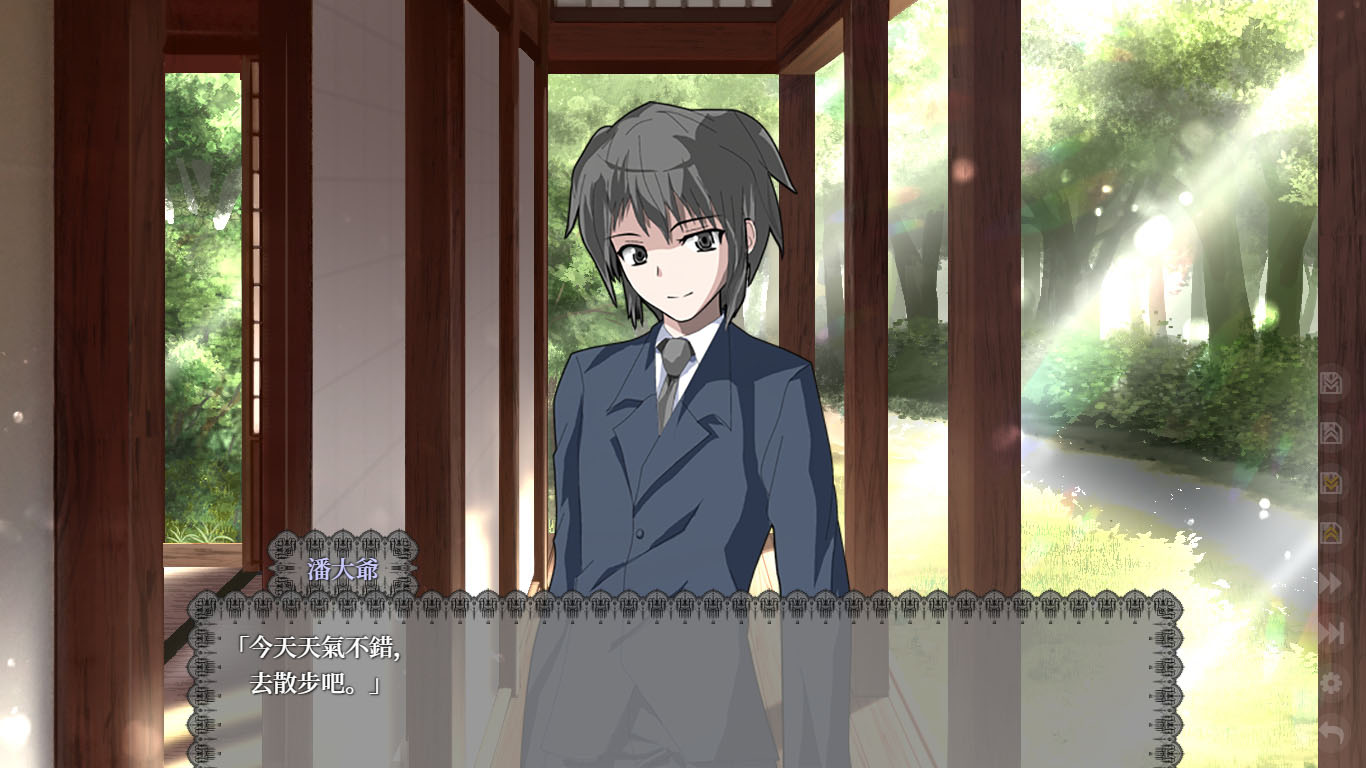
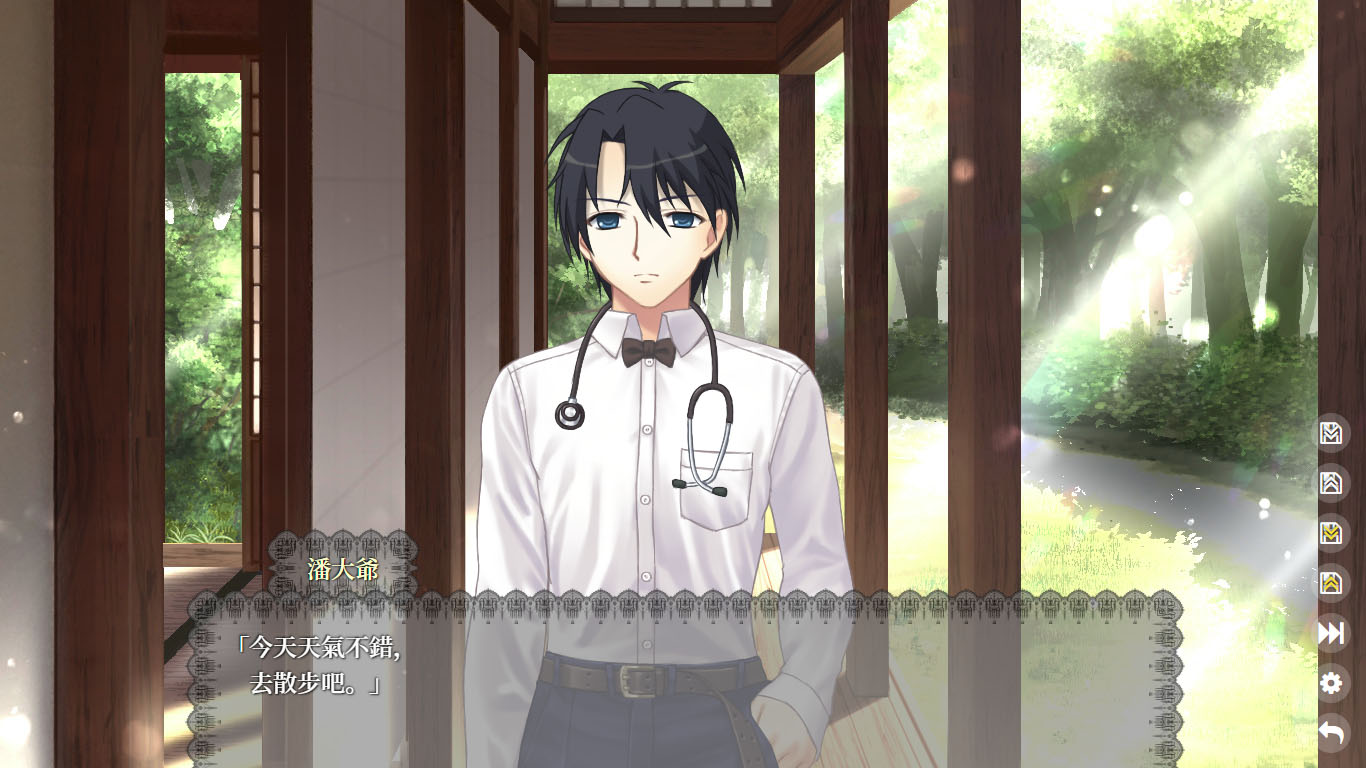
喵！

diff --git a/site/用戶指南/鏡頭.html b/site/用戶指南/鏡頭.html
@@ -694,24 +694,23 @@
 在輪到角色說話的時候，他所對應的鏡頭就會生效，那個鏡頭中所有角色的立繪都會按鏡頭中的位置出現在場上。</p>
 <p>如果下次重新設置一個包含相同角色的鏡頭時，那個角色就不再使用舊鏡頭了。</p>
 <h2 id="_3">語法</h2>
-<pre><code>+ {潘大爺: [100, 100], 林梓雨: [500, 100, 1.2]}
+<pre><code>+ {舟舟: [100, 0, 1], 潘大爺: [550, 0, 1]}
 </code></pre>
 
-<p>這是一個普通的多人鏡頭，不僅確定了 <code>潘大爺</code> 和 <code>林梓雨</code> 的位置，而且綁定了兩人。當其中一人在對話中出現時，另一人也會隨之出現。  </p>
+<p>這是一個普通的多人鏡頭，不僅確定了 <code>舟舟</code> 和 <code>潘大爺</code> 的位置，而且綁定了兩人。當其中一人在對話中出現時，另一人也會隨之出現。  </p>
 <p>這個語法的要點就是那對 <code>花括號</code> 裏有數個 <code>角色: 位置</code> 的組合，然後中間用 <code>逗號</code> 隔開。<br />
 明白這點的話你就可以輕鬆地把它擴展成三人以上的鏡頭。<br />
 <small>如果你知道JSON，顯然……這個語法只是在 <code>+</code> 後擺上一個JSON。</small></p>
 <p>第三个参数可以省略，这样就是保持原本大小<small>(即1倍縮放)</small>。</p>
 <p>像是這樣的效果: 
-<img alt="圖2" class="極" src="樣例_東方.jpg" /><br />
-<small>(我上哪去找林梓雨……姑且用可愛的女孩子湊個數吧)</small></p>
+<img alt="圖2" class="極" src="樣例.jpg" />  </p>
 <h3 id="_4">簡化鏡頭</h3>
-<pre><code>+ [潘大爺, 林梓雨]
+<pre><code>+ [舟舟, 潘大爺]
 </code></pre>
 
 <p>這是推薦的簡化寫法。<br />
 <small>(輕鬆多了！)</small></p>
-<p>同樣是雙人鏡頭，這會直接把 <code>潘大爺</code> 和 <code>林梓雨</code> 放在他們的默認位置上。在項目設置中設定「默認位置」。</p>
+<p>同樣是雙人鏡頭，這會直接把 <code>舟舟</code> 和 <code>潘大爺</code> 放在他們的默認位置上。在項目設置中設定「默認位置」。</p>
 <h3 id="_5">鏡頭解除</h3>
 <p>有時候我們希望人物對話時顯示名字，但不顯示立繪，可以: </p>
 <pre><code>- 潘大爺
@@ -723,9 +722,9 @@
 <small>(在意名字你就輸了)</small></p>
 <pre><code>潘大爺 「你們又把系統更新了嗎？」
 + [潘大爺, 林梓雨]
-+ [校長, 張主任]
++ [舟舟, 張主任]
 林梓雨 「欸，沒聽說啊？」
-校長 「啊啊，我昨天看到路上的〇學生就順便把系統更新了。」
+舟舟 「啊啊，我昨天看到路上的〇學生就順便把系統更新了。」
 張主任 「話說系統和〇學生有什麼關係……」
 潘大爺 「怪不得我這裏連不上了……」
 </code></pre>
@@ -738,15 +737,15 @@
 <p>&nbsp;&nbsp;&nbsp;&nbsp;&nbsp;&nbsp;林梓雨  <br />
 「欸，沒聽說啊？」 <br />
 <small>( <strong>潘大爺</strong> 的立繪移動到左側，<strong>林梓雨</strong> 的立繪出現在右側。)</small></p>
-<p>&nbsp;&nbsp;&nbsp;&nbsp;&nbsp;&nbsp;校長  <br />
+<p>&nbsp;&nbsp;&nbsp;&nbsp;&nbsp;&nbsp;舟舟  <br />
 「啊啊，我昨天看到路上的〇學生就順便把系統更新了。」 <br />
-<small>( <strong>潘大爺</strong> 和 <strong>林梓雨</strong> 的立繪消失，<strong>校長</strong> 和 <strong>張主任</strong> 出現在畫面的左右兩側)</small></p>
+<small>( <strong>潘大爺</strong> 和 <strong>林梓雨</strong> 的立繪消失，<strong>舟舟</strong> 和 <strong>張主任</strong> 出現在畫面的左右兩側)</small></p>
 <p>&nbsp;&nbsp;&nbsp;&nbsp;&nbsp;&nbsp;張主任  <br />
 「話說系統和〇學生有什麼關係……」 <br />
 <small>(鏡頭和立繪沒有變化)</small></p>
 <p>&nbsp;&nbsp;&nbsp;&nbsp;&nbsp;&nbsp;潘大爺  <br />
 「怪不得我這裏連不上了……」 <br />
-<small>( <strong>校長</strong> 和 <strong>張主任</strong> 的立繪消失，<strong>潘大爺</strong> 和 <strong>林梓雨</strong> 出現在畫面的左右兩側)</small></p>
+<small>( <strong>舟舟</strong> 和 <strong>張主任</strong> 的立繪消失，<strong>潘大爺</strong> 和 <strong>林梓雨</strong> 出現在畫面的左右兩側)</small></p>
 </blockquote>
 <h2 id="_7">注意</h2>
 <ol>
@@ -781,6 +780,11 @@
 + [林梓雨]
 林梓雨 「潘大爺走了……我要偷偷把他的期末成績改掉。」
 </code></pre>
+</li>
+<li>
+<p>在樣例 <code>{舟舟: [100, 0, 1], 潘大爺: [550, 0, 1]}</code> 中，兩個人不一樣高的問題——舟舟距離上邊界的距離是0，爲什麼不是頂着天花板。</p>
+<p>PSD文件中已有預留邊距，這也是實現不同身高的辦法。實際上div的位置的確是 <code>[100, 0]</code> 和 <code>[550, 0]</code>，在 Developer Tools 看起來像是這樣——</p>
+<p><img alt="樣例提示.jpg" class="極" src="樣例提示.jpg" /></p>
 </li>
 </ol>
                 

diff --git a/site/用戶指南/修改配置.html b/site/用戶指南/修改配置.html
@@ -363,13 +363,6 @@
   
 </li>
       
-        <li class="md-nav__item">
-  <a href="#_7" title="預先配置的主題" class="md-nav__link">
-    預先配置的主題
-  </a>
-  
-</li>
-      
       
       
       
@@ -645,13 +638,6 @@
   
 </li>
       
-        <li class="md-nav__item">
-  <a href="#_7" title="預先配置的主題" class="md-nav__link">
-    預先配置的主題
-  </a>
-  
-</li>
-      
       
       
       
@@ -680,7 +666,7 @@
 <small>(不是遊戲裏面的標題畫面別搞混了)</small></dd>
 <dt>主題css</dt>
 <dd>選擇一個你喜歡的adv界面外觀。<br />
-預先配置的主題會在下面列出。  </dd>
+預先配置的主題好像只有「黑色花紋邊框」能看得下去，其他的還是等我再做做吧……  </dd>
 </dl>
 <h2 id="_3">路徑設定</h2>
 <dl>
@@ -732,10 +718,6 @@
 這樣的情況下，我覺得好像應該把在 <code>&gt;py</code> / <code>&gt;endpy</code>裏調用你的遊戲。如果你的遊戲能嵌入pyqt5，在主窗口添加一個層，然後嵌入你的遊戲，在結束時把層消除就好了。 <br />
 我也沒試過……</p>
 <p>不過現在的遊戲引擎很多都能生成html5遊戲，說不定還不錯？</p>
-<h2 id="_7">預先配置的主題</h2>
-<p>黑色花紋邊框 <br />
-<img alt="" class="極" src="主題圖/黑色花紋邊框.jpg" /></p>
-<p>其他的還是等我隨便再做做吧……</p>
                 
                   
                 

diff --git a/docs/用戶指南/鏡頭.md b/docs/用戶指南/鏡頭.md
@@ -21,10 +21,10 @@
 ## 語法
 
 ```
-+ {潘大爺: [100, 100], 林梓雨: [500, 100, 1.2]}
++ {舟舟: [100, 0, 1], 潘大爺: [550, 0, 1]}
 ```
 
-這是一個普通的多人鏡頭，不僅確定了 `潘大爺` 和 `林梓雨` 的位置，而且綁定了兩人。當其中一人在對話中出現時，另一人也會隨之出現。  
+這是一個普通的多人鏡頭，不僅確定了 `舟舟` 和 `潘大爺` 的位置，而且綁定了兩人。當其中一人在對話中出現時，另一人也會隨之出現。  
 
 這個語法的要點就是那對 `花括號` 裏有數個 `角色: 位置` 的組合，然後中間用 `逗號` 隔開。  
 明白這點的話你就可以輕鬆地把它擴展成三人以上的鏡頭。  
@@ -32,20 +32,17 @@
 
 第三个参数可以省略，这样就是保持原本大小<small>(即1倍縮放)</small>。
 
-
-
 像是這樣的效果: 
-![圖2](樣例_東方.jpg){:.極}  
-<small>(我上哪去找林梓雨……姑且用可愛的女孩子湊個數吧)</small>
+![圖2](樣例.jpg){:.極}  
 
 ### 簡化鏡頭
 ```
-+ [潘大爺, 林梓雨]
++ [舟舟, 潘大爺]
 ```
 這是推薦的簡化寫法。  
 <small>(輕鬆多了！)</small>
  
-同樣是雙人鏡頭，這會直接把 `潘大爺` 和 `林梓雨` 放在他們的默認位置上。在項目設置中設定「默認位置」。
+同樣是雙人鏡頭，這會直接把 `舟舟` 和 `潘大爺` 放在他們的默認位置上。在項目設置中設定「默認位置」。
 
 ### 鏡頭解除
 有時候我們希望人物對話時顯示名字，但不顯示立繪，可以: 
@@ -60,9 +57,9 @@
 ```
 潘大爺 「你們又把系統更新了嗎？」
 + [潘大爺, 林梓雨]
-+ [校長, 張主任]
++ [舟舟, 張主任]
 林梓雨 「欸，沒聽說啊？」
-校長 「啊啊，我昨天看到路上的〇學生就順便把系統更新了。」
+舟舟 「啊啊，我昨天看到路上的〇學生就順便把系統更新了。」
 張主任 「話說系統和〇學生有什麼關係……」
 潘大爺 「怪不得我這裏連不上了……」
 ```
@@ -76,9 +73,9 @@
 > 「欸，沒聽說啊？」   
 > <small>( **潘大爺** 的立繪移動到左側，**林梓雨** 的立繪出現在右側。)</small>
 > 
-> &nbsp;&nbsp;&nbsp;&nbsp;&nbsp;&nbsp;校長    
+> &nbsp;&nbsp;&nbsp;&nbsp;&nbsp;&nbsp;舟舟    
 > 「啊啊，我昨天看到路上的〇學生就順便把系統更新了。」   
-> <small>( **潘大爺** 和 **林梓雨** 的立繪消失，**校長** 和 **張主任** 出現在畫面的左右兩側)</small>
+> <small>( **潘大爺** 和 **林梓雨** 的立繪消失，**舟舟** 和 **張主任** 出現在畫面的左右兩側)</small>
 > 
 > &nbsp;&nbsp;&nbsp;&nbsp;&nbsp;&nbsp;張主任    
 > 「話說系統和〇學生有什麼關係……」   
@@ -86,7 +83,7 @@
 > 
 > &nbsp;&nbsp;&nbsp;&nbsp;&nbsp;&nbsp;潘大爺    
 > 「怪不得我這裏連不上了……」   
-> <small>( **校長** 和 **張主任** 的立繪消失，**潘大爺** 和 **林梓雨** 出現在畫面的左右兩側)</small>
+> <small>( **舟舟** 和 **張主任** 的立繪消失，**潘大爺** 和 **林梓雨** 出現在畫面的左右兩側)</small>
 
 
 ## 注意
@@ -120,3 +117,9 @@
         潘大爺走了。
         + [林梓雨]
         林梓雨 「潘大爺走了……我要偷偷把他的期末成績改掉。」
+
+4. 在樣例 `{舟舟: [100, 0, 1], 潘大爺: [550, 0, 1]}` 中，兩個人不一樣高的問題——舟舟距離上邊界的距離是0，爲什麼不是頂着天花板。
+
+    PSD文件中已有預留邊距，這也是實現不同身高的辦法。實際上div的位置的確是 `[100, 0]` 和 `[550, 0]`，在 Developer Tools 看起來像是這樣——
+
+    ![樣例提示.jpg](樣例提示.jpg){:.極}

diff --git a/docs/用戶指南/修改配置.md b/docs/用戶指南/修改配置.md
@@ -13,7 +13,7 @@
     
 主題css
 :   選擇一個你喜歡的adv界面外觀。  
-    預先配置的主題會在下面列出。  
+    預先配置的主題好像只有「黑色花紋邊框」能看得下去，其他的還是等我再做做吧……  
 
 ## 路徑設定
 
@@ -69,15 +69,9 @@
 
 
 ## 嵌入其他功能
+
 比如說這個adv劇情到一半，要進入一個魔法打架的遊戲<small>(當然這是你自己寫好的)</small>。   
 這樣的情況下，我覺得好像應該把在 `>py` / `>endpy`裏調用你的遊戲。如果你的遊戲能嵌入pyqt5，在主窗口添加一個層，然後嵌入你的遊戲，在結束時把層消除就好了。   
 我也沒試過……
 
 不過現在的遊戲引擎很多都能生成html5遊戲，說不定還不錯？
-
-## 預先配置的主題
-
-黑色花紋邊框   
-![](主題圖/黑色花紋邊框.jpg){:.極}
-
-其他的還是等我隨便再做做吧……
